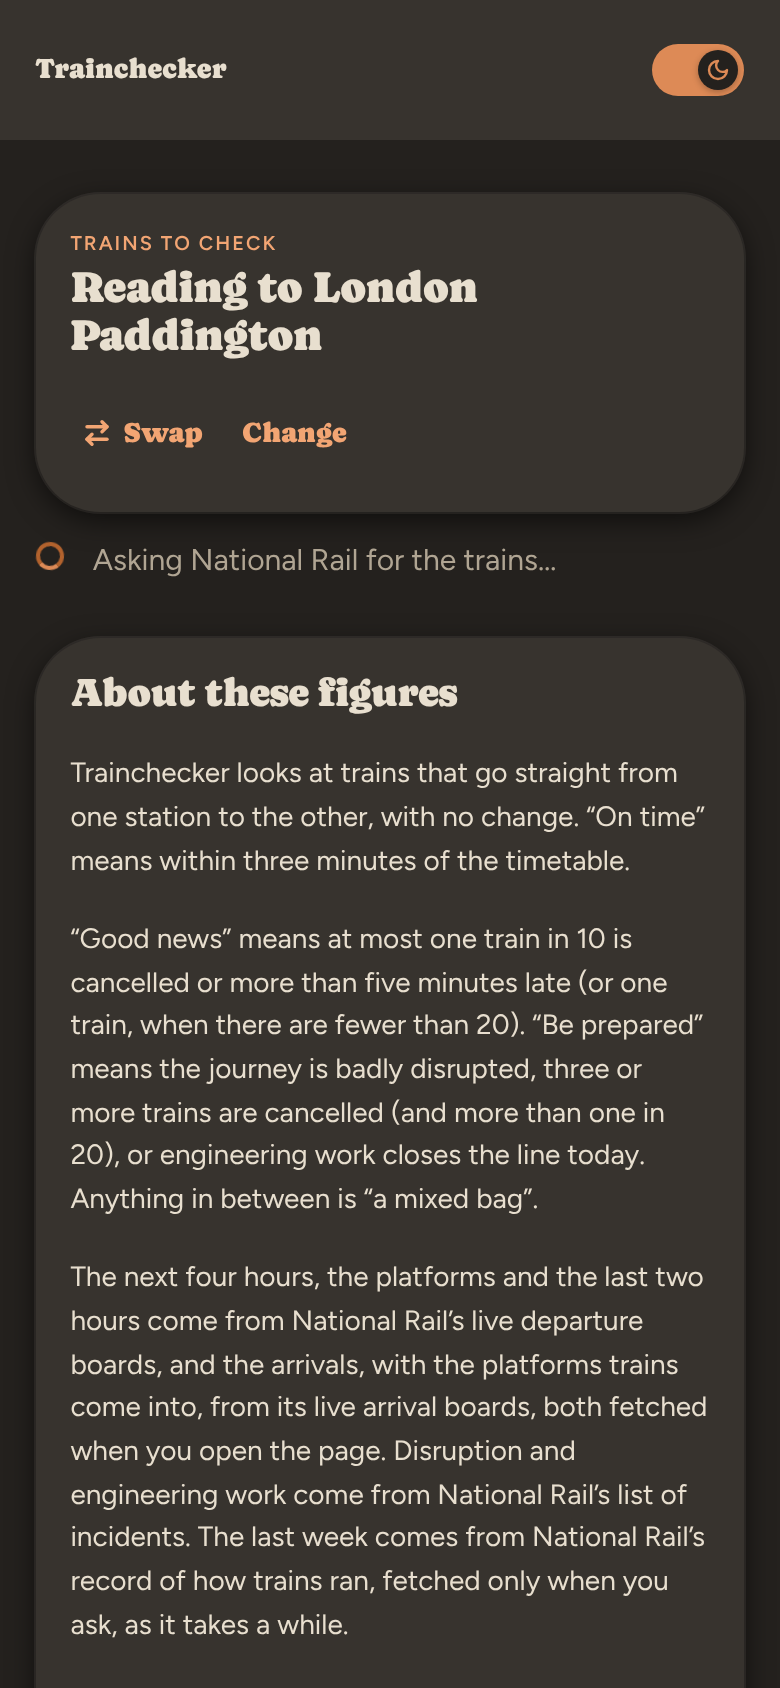
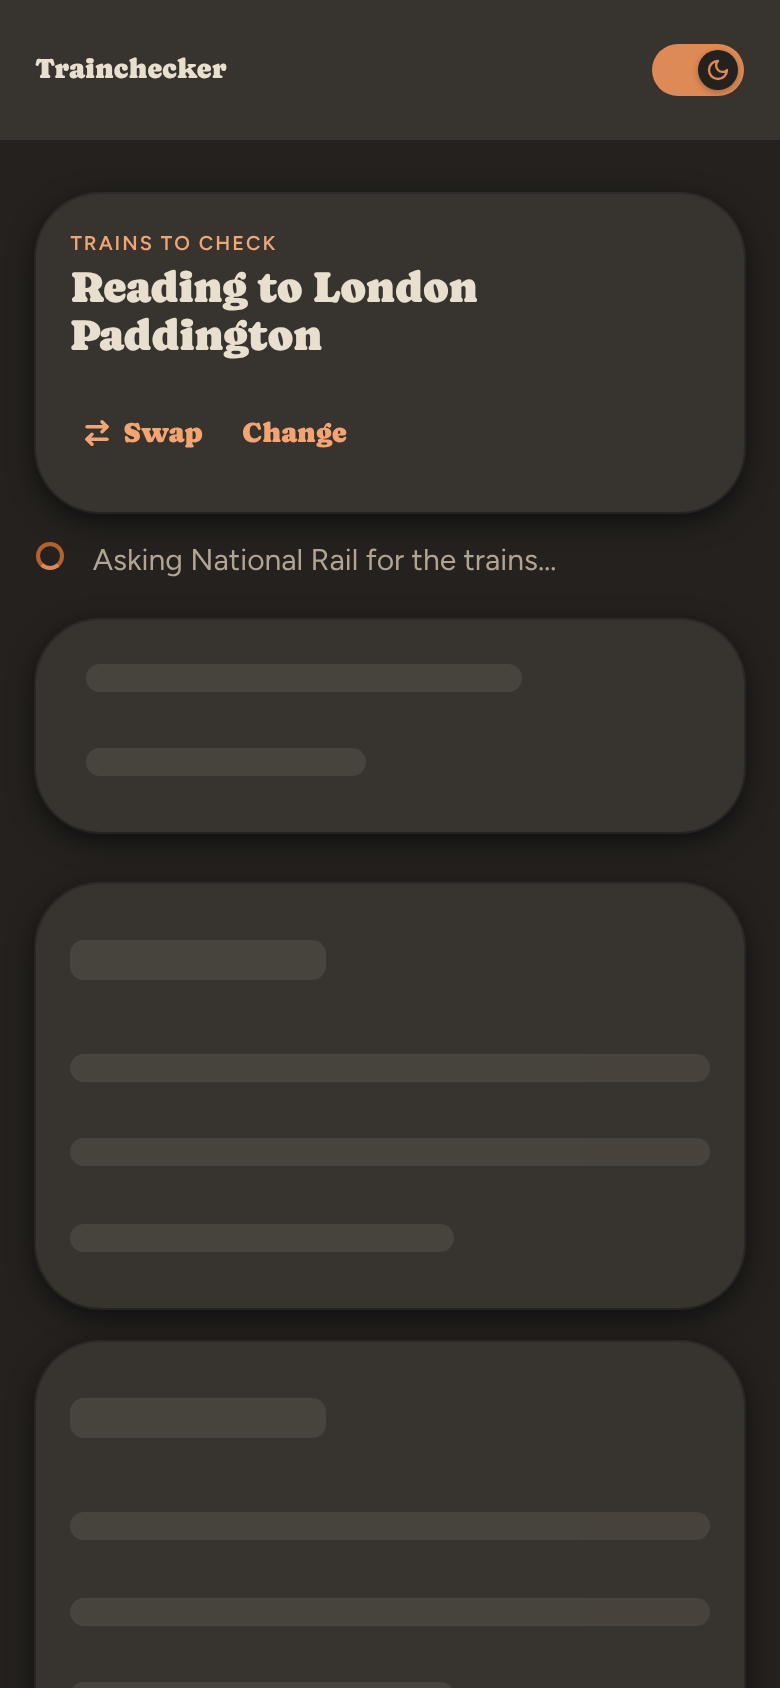
Loading: pale outlines of the page (John chose B); the switch removed
Claude-Session: https://claude.ai/code/session_01BsvHLFfPFr7TbPzqXab8yu

diff --git a/src/components/JourneyView.tsx b/src/components/JourneyView.tsx
@@ -380,11 +380,10 @@ export function JourneyView({ journey }: { journey: Journey }) {
   )
 
   if (state.s === 'loading') {
-    // MOCK-UP (November 25th 2026, for John): the quote flashed up while the trains loaded. A: the
-    // line alone; B (the default here): the line and pale outlines of the page to come.
-    const load = new URLSearchParams(location.search).get('load') === 'A' ? 'A' : 'B'
+    // The quote flashed up while the trains loaded; now the line and pale outlines of the page to
+    // come (John, November 25th 2026, option B).
     return <>{strip}<p className="dateline muted" role="status"><span className="spinner" aria-hidden="true"></span>Asking National Rail for the trains…</p>
-      {load === 'B' && <div className="skel" aria-hidden="true">
+      {<div className="skel" aria-hidden="true">
         <section className="card verdict"><span className="sk" style={{ width: '70%' }}></span><span className="sk" style={{ width: '45%' }}></span></section>
         <div className="grid">
           {[0, 1].map((k) => <section key={k} className="card sec"><span className="sk sk-h"></span><span className="sk"></span><span className="sk"></span><span className="sk" style={{ width: '60%' }}></span></section>)}

diff --git a/src/styles/global.css b/src/styles/global.css
@@ -337,7 +337,7 @@ details.trains-fold { margin-top: var(--space-3); }
 .ptaphint { margin: var(--space-3) 0 0; font-size: 14px; color: var(--color-neutral-700); }
 @media (pointer: coarse) { .tapbadge { min-height: 44px; min-width: 3.4em; justify-content: center; } }
 
-/* MOCK-UP (November 25th 2026): pale outlines of the page while the trains load (option B). */
+/* Pale outlines of the page while the trains load (John, November 25th 2026, option B). */
 .skel .sk { display: block; height: 14px; margin: 10px 0; border-radius: 7px; background: var(--color-divider); animation: skpulse 1.4s ease-in-out infinite; }
 .skel .sk-h { height: 20px; width: 40%; margin-bottom: 18px; }
 .skel .verdict .sk:first-child { margin-top: 4px; }

diff --git a/CLAUDE.md b/CLAUDE.md
@@ -74,7 +74,7 @@ given its own branch). Before committing there, run
 
 ## Log
 
-### November 25th 2026: no quote while the trains load, a mock-up (branch `claude/clever-wozniak-j7ic52`, not merged; Claude Code)
+### November 25th 2026: no quote while the trains load; live (branch `claude/clever-wozniak-j7ic52`, merged the same day; Claude Code)
 
 - **John:** a fresh journey showed the quote of the day for a moment while the data loaded; show something
   else. Cause: the loading screen drew "Asking National Rail for the trains…" and the quote under it.
@@ -83,8 +83,11 @@ given its own branch). Before committing there, run
   `global.css`). The quote still shows when National Rail can't be reached. Pictures and `shoot.mjs` in
   `design/previews/loading/` (the answer held back): 390px dark and 1200px light, no quote, no errors, no
   sideways scroll. Checks, `tsc -b`, lint, build.
+- **John:** B ("That's all sorted then, please merge to Main!"). The `?load=` switch removed. Merged with
+  everything else on the branch: the Share under the location guide and Exits, Exits folded, "across the
+  line", Putney. Checks, `tsc -b`, lint and build clean first.
 
-### November 25th 2026: Share under the location guide and Exits (branch `claude/clever-wozniak-j7ic52`, not merged; Claude Code)
+### November 25th 2026: Share under the location guide and Exits; live (branch `claude/clever-wozniak-j7ic52`, merged the same day; Claude Code)
 
 - **John:** a Share under the departures' directions (a tapped platform) and under Exits' answer, on a line
   below the box, reproducing the box; the words to think about.
@@ -107,7 +110,7 @@ given its own branch). Before committing there, run
   copied and read back (the guide's in two paragraphs), 1200px light and 390px dark; no errors, no sideways
   scroll; checks, `tsc -b`, lint, build.
 
-### November 25th 2026: Putney's one entrance; entrances named after their own platform (branch `claude/clever-wozniak-j7ic52`, not merged; Claude Code)
+### November 25th 2026: Putney's one entrance; entrances named after their own platform; live (branch `claude/clever-wozniak-j7ic52`, merged the same day; Claude Code)
 
 - **John (Putney, platform 2):** "Platform 2 is right by the Disraeli Road entrance. From the entrance nearest
   platform 2, the way in leads to platform 2." reads as if Disraeli Road were nearer, and says platform 2
